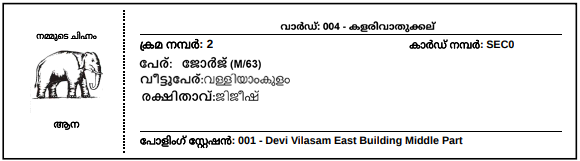
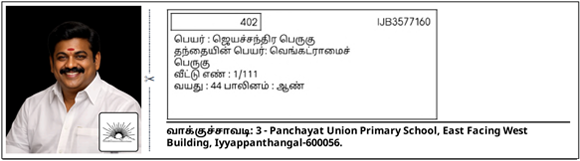
Improve landing page SEO metadata and social image assets

diff --git a/frontend/index.html b/frontend/index.html
@@ -5,27 +5,39 @@
     <!-- Primary Meta Tags -->
     <title>Tamil Nadu Assembly Election 2026 Voter Information Slip Generator | EasySlip</title>
     <meta name="title"
-        content="Tamil Nadu Assembly Election 2026 Voter Information Slip Generator | EasySlip - Professional Election Slips for All 14 Districts">
+        content="Tamil Nadu Assembly Election 2026 Voter Information Slip Generator | EasySlip - All TN Districts">
     <meta name="description"
-        content="Generate professional, print-ready voter information slips for Tamil Nadu Assembly Elections 2026 (தமிழ்நாடு சட்டமன்றத் தேர்தல் 2026) instantly. Secure, affordable, and 100% accurate at just ₹0.50/voter. Covering all districts across Tamil Nadu.">
+        content="Create print-ready Tamil Nadu Assembly Election 2026 voter information slips (தமிழ்நாடு சட்டமன்றத் தேர்தல் 2026 வாக்காளர் சீட்டு) by constituency, district, party and candidate name. Instant PDF voter slip generation across all Tamil Nadu districts.">
     <meta name="keywords"
-        content="Tamil Nadu Assembly Election 2026, Tamil Nadu Election 2026, Tamil Nadu Assembly Election, சட்டமன்றத் தேர்தல், தமிழ்நாடு சட்டமன்றத் தேர்தல் 2026, voter information slip generator, election slip generator, Tamil Nadu elections, voter list Tamil Nadu, MLA candidate slip, Tamil Nadu political campaign, digital voter information slip, online voter information slip generator, Tamil voter information slip, வாக்காளர் சீட்டு, தேர்தல் சீட்டு, வேட்பாளர் சீட்டு, வாக்குச்சாவடி சீட்டு, வார்டு சீட்டு, Assembly constituency slips, Tamil Nadu SEC, print voter information slip, cheap election printing, instant voter information slip">
+        content="Tamil Nadu Assembly Election 2026, Tamil Nadu voter slip, voter information slip Tamil Nadu, assembly voter slip 2026, TN election voter slip generator, constituency wise voter slip Tamil Nadu, candidate name voter slip, party wise voter slip, வாக்காளர் சீட்டு, தேர்தல் சீட்டு, சட்டமன்ற தேர்தல் 2026, Tamil Nadu Assembly candidate names 2026, Tamil Nadu election party symbols, DMK, AIADMK, BJP, INC, PMK, NTK, DMDK, MDMK, VCK, CPI, CPM, TMC, AMMK, Chennai, Coimbatore, Madurai, Tiruchirappalli, Tirunelveli, Salem, Erode, Vellore, Thanjavur, Tiruppur, Dindigul, Cuddalore, Thoothukudi, Kancheepuram, Kallakurichi, Karur, Krishnagiri, Mayiladuthurai, Nagapattinam, Namakkal, Nilgiris, Perambalur, Pudukkottai, Ramanathapuram, Ranipet, Sivaganga, Tenkasi, Theni, Tirupathur, Tiruvarur, Tiruvallur, Tiruvannamalai, Villupuram, Virudhunagar, Ariyalur, Chengalpattu, Dharmapuri, Kanyakumari, Election campaign print, booth slip Tamil Nadu, polling station slip Tamil Nadu">
     <meta name="author" content="EasySlip - Tamil Nadu Assembly Election Voter Information Slip Generator">
     <meta name="robots" content="index, follow, max-image-preview:large, max-snippet:-1, max-video-preview:-1">
+    <link rel="canonical" href="https://tn.easyslip.in/">
 
     <!-- Open Graph / Facebook -->
     <meta property="og:type" content="website">
     <meta property="og:title" content="Tamil Nadu Assembly Election 2026 Voter Information Slip Generator | EasySlip">
     <meta property="og:description"
-        content="Professional voter information slips for Tamil Nadu Assembly Elections 2026. Custom layout for candidates. ₹0.50/voter. Instant PDF download.">
+        content="Generate Tamil Nadu Assembly Election 2026 voter slips by district, constituency, party and candidate name. Instant PDF download for campaign use.">
+    <meta property="og:url" content="https://tn.easyslip.in/">
+    <meta property="og:image" content="https://tn.easyslip.in/ogimage.png">
+    <meta property="og:image:secure_url" content="https://tn.easyslip.in/ogimage.png">
+    <meta property="og:image:type" content="image/png">
+    <meta property="og:image:alt" content="EasySlip Tamil Nadu Assembly Election 2026 Voter Slip Generator">
     <meta property="og:site_name" content="EasySlip">
     <meta property="og:locale" content="en_IN">
     <meta property="og:locale:alternate" content="ta_IN">
 
+    <!-- Twitter -->
+    <meta name="twitter:card" content="summary_large_image">
+    <meta name="twitter:title" content="Tamil Nadu Assembly Election 2026 Voter Information Slip Generator | EasySlip">
+    <meta name="twitter:description" content="Tamil Nadu 2026 constituency-wise voter slip generation with candidate and party targeting. Fast downloadable PDF.">
+    <meta name="twitter:image" content="https://tn.easyslip.in/ogimage.png">
+
     <!-- Geo Tags -->
-    <meta name="geo.region" content="IN-KL">
+    <meta name="geo.region" content="IN-TN">
     <meta name="geo.placename" content="Tamil Nadu">
-    <meta name="geo.position" content="10.8505;76.2711">
+    <meta name="geo.position" content="13.0827;80.2707">
 
     <!-- Language -->
     <meta http-equiv="content-language" content="en-IN, ta-IN">
